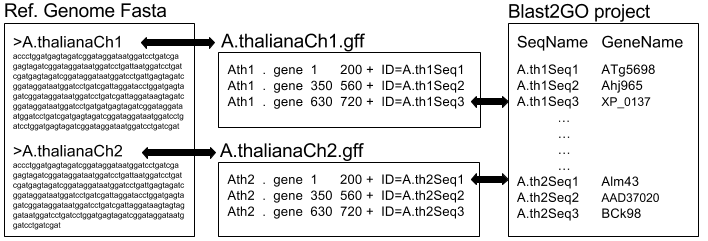
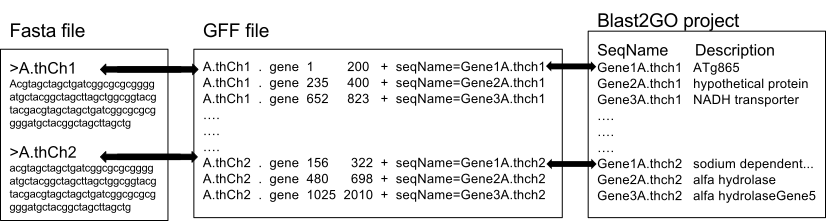
Added commentaries and deleted junk code

diff --git a/Submission_App/docu/Submission_App_Docu/src/NCBISub.tex b/Submission_App/docu/Submission_App_Docu/src/NCBISub.tex
@@ -54,11 +54,9 @@ Three elements are necessaty to create the submission files:
   names in the fasta description line have to match the GFF file name.
   \item \textbf{Genomic annotation}: This data is provide by the GFF3 files, and
   is also used to link the Blast2GO annotations and the
-  genome reference sequences in the Fasta file. A GFF3 is necessary for each
-  chromosome, with the file name matching the chromosome name as it appears in
-  the fasta file. The sequences name used in the Blast2GO project should appear
-  in the feature column in the GFF3 file. The corresponding feature ID can be
-  specified as parameter (default is seqName).
+  genome reference sequences in the Fasta file. The sequences name used in the 
+  Blast2GO project should appear in the feature column in the GFF3 file. The 
+  corresponding feature ID can be specified as parameter (default is seqName).
   \item \textbf{Functional annotation}: This information is provided by your
   Blast2GO project, and is intended to provide the functional features of your
   sequences, including gene names, Gene Ontology terms and enzyme numbers. The
@@ -69,18 +67,16 @@ Three elements are necessaty to create the submission files:
 \end{itemize}
 
 \subsubsection{Preparing your data}
-
+ 
 In order to integrate all the information and create the NCBI submission
 files, we need to create informative links between them. As discussed above, the
 GFF3 files act as a link between the genome sequence and the functional
 annotation.
 
-The FASTA, or multi-FASTA file may contain one or more chromosomes. The
-chromosome names in the fasta description line have to match the GFF3 name,
-additionally, the sequence name used in the Blast2GO project should appear in
-the feature column in the GFF3 file. The corresponding feature ID can be specified
+The sequence name used in the Blast2GO project should appear in
+the feature column in the GFF3 file (attributes field). The corresponding feature ID can be specified
 as a parameter (for the GFF files created by Augustus and Glimmer included in
-Blast2GO, the IDs correspond to `seqName').
+Blast2GO, the IDs correspond to `seqName' by default).
 
 
 \begin{figure}[!h] \centering

diff --git a/Submission_App/bundles/com.biobam.blast2go.apps.submitter/src/com/biobam/blast2go/apps/submitter/job/RetrieveGeneFromNCBI.java b/Submission_App/bundles/com.biobam.blast2go.apps.submitter/src/com/biobam/blast2go/apps/submitter/job/RetrieveGeneFromNCBI.java
@@ -9,6 +9,7 @@ import java.io.OutputStreamWriter;
 import java.net.HttpURLConnection;
 import java.net.MalformedURLException;
 import java.net.URL;
+import java.util.Collection;
 import java.util.concurrent.TimeUnit;
 import java.util.regex.Matcher;
 import java.util.regex.Pattern;
@@ -19,13 +20,20 @@ public class RetrieveGeneFromNCBI {
 	private static final long CONNECTION_TIMEOUT_SECONDS = 10;
 	private static final long READ_TIMEOUT_SECONDS = 15;
 
-	static String getNames(Object allGeneIDs) throws MalformedURLException, IOException {
+	static String getNames(Collection<String> allGeneIDs) throws MalformedURLException, IOException {
+//		String geneID = null;
+		
+		String geneID = allGeneIDs.iterator().next();
+//		for (String string : allGeneIDs) {
+//			geneID = string;
+//			break;
+//		}
 		String geneName = "";
 		String protName = "";
-		String[] geneIDs = allGeneIDs.toString()
-		        .split(",");
-		String geneID = geneIDs[0].replace("[", "")
-		        .replace("]", "");
+//		String[] geneIDs = allGeneIDs.toString()
+//		        .split(",");
+//		String geneID = geneIDs[0].replace("[", "")
+//		        .replace("]", "");
 
 		URL ncbi_url;
 

diff --git a/Submission_App/bundles/com.biobam.blast2go.apps.submitter/src/com/biobam/blast2go/apps/submitter/job/SubmitterCompleteJob.java b/Submission_App/bundles/com.biobam.blast2go.apps.submitter/src/com/biobam/blast2go/apps/submitter/job/SubmitterCompleteJob.java
@@ -11,6 +11,7 @@ import java.math.BigDecimal;
 import java.nio.file.Files;
 import java.nio.file.StandardCopyOption;
 import java.util.ArrayList;
+import java.util.Collection;
 import java.util.Collections;
 import java.util.HashMap;
 import java.util.Iterator;
@@ -163,15 +164,16 @@ public class SubmitterCompleteJob extends B2GJob<SubmitterJobParameters> {
 
 				if ((seqEval.compareTo(eValue) <= 0) && (seqCov.compareTo(parameters.coverage.getValue()) >= 0) && (seqSim.compareTo(parameters.sim.getValue()) >= 0)) {
 					// Obtain the geneName from NCBI datbase
-					Object geneID = sequence.getBlastOutput()
-					        .getTopHit()
-					        .getGis();
+					Collection<String> geneIDs = sequence.getBlastOutput().getTopHit().getAcs().values();
+//							sequence.getBlastOutput()
+//					        .getTopHit()
+//					        .getGis();
 
 					String GeneProd = "";
 					if (parameters.geneName.getValue()
 					        .equals(GeneName.Top_Blast_Hit)) {
 
-						GeneProd = RetrieveGeneFromNCBI.getNames(geneID);
+						GeneProd = RetrieveGeneFromNCBI.getNames(geneIDs);
 					}
 
 					String[] name = GeneProd.split("\\$");
